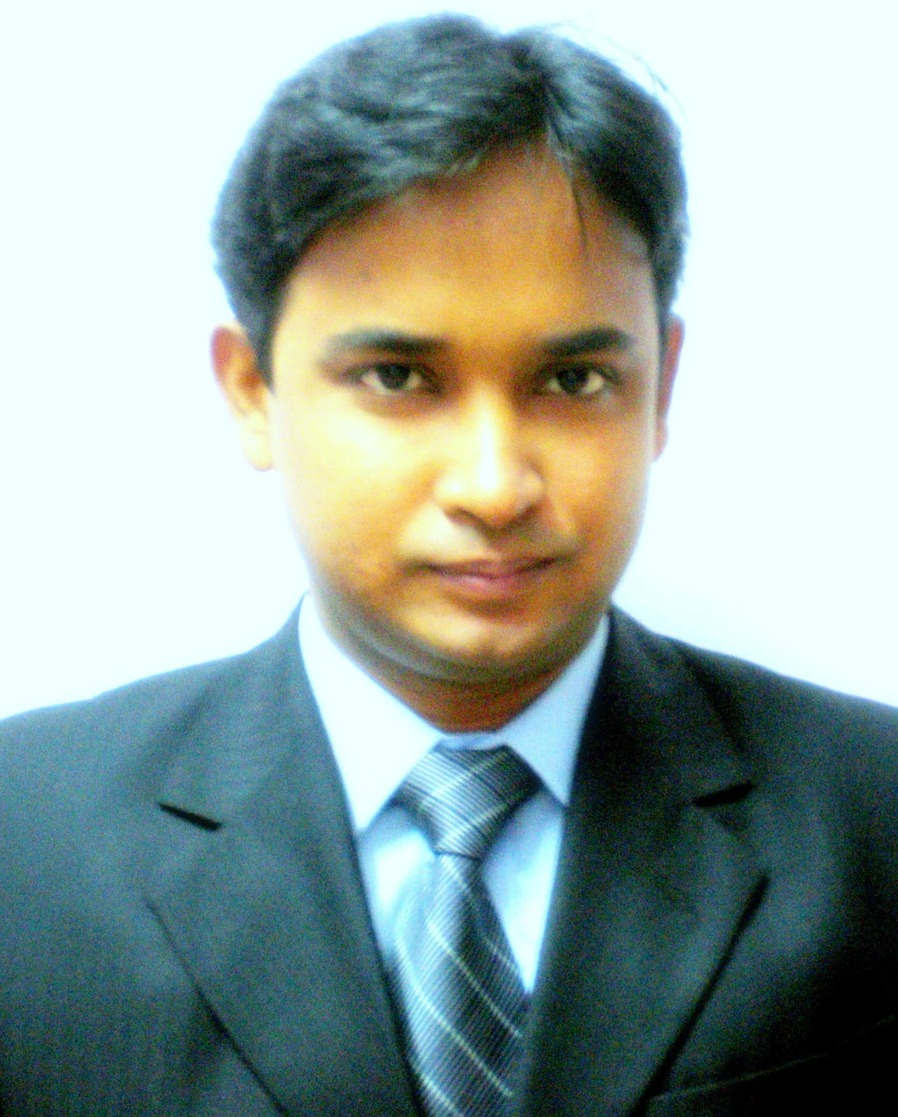
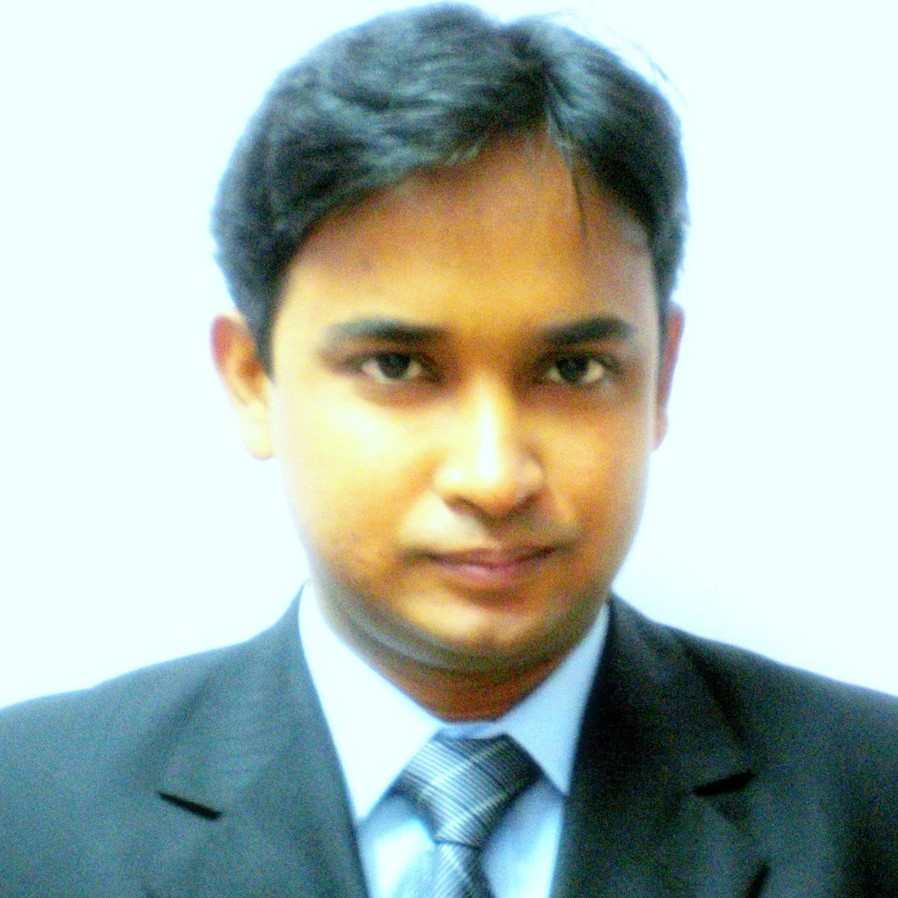
updatw

diff --git a/index.html b/index.html
@@ -500,7 +500,7 @@
                                     >
                                         <div class="item-media1">
                                             <img
-                                                src="images/Resource Person/Fardin_PP.jpg"
+                                                src="images/Resource Person/Fardin_PPn.jpg"
                                                 alt=""
                                             />
                                             <div class="media-links"></div>

diff --git a/ranjan.html b/ranjan.html
@@ -227,7 +227,7 @@
 							</p>
 						</div>
 						<div class="col-lg-6 to_animate fw-column animate" data-animation="fadeInLeft">
-						 <a class="item_img"> <img src="images/Resource Person/Ranjan Karmaker.jpg" alt=""></a>	
+						 <a class="item_img"> <img src="images/Resource Person/Ranjan Karmaker1.jpg" alt=""></a>	
 						</div>
 						<div class="col-lg-12 to_animate fw-column animate" data-animation="fadeInUp">
 							<div class="shortcodes">

diff --git a/fardin.html b/fardin.html
@@ -223,7 +223,7 @@
 							</p>
 						</div>
 						<div class="col-lg-6 to_animate fw-column animate" data-animation="fadeInLeft">
-						 <a class="item_img"> <img src="images/Resource Person/Fardin_PP.jpg" alt=""></a>	
+						 <a class="item_img"> <img src="images/Resource Person/Fardin_PPn.jpg" alt=""></a>	
 						</div>
 						<div class="col-lg-12 to_animate fw-column animate" data-animation="fadeInUp">
 							<div class="shortcodes">

diff --git a/css/main.css b/css/main.css
@@ -1672,8 +1672,8 @@ Owl Default Theme
     right: 0;
 }
 .item-media1 img {
-    width: 270px;
-    height: 250px;
+    width: 100%;
+    
     overflow: hidden;
 }
 /* .owl-center theme */
